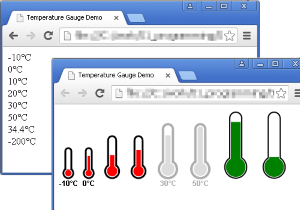
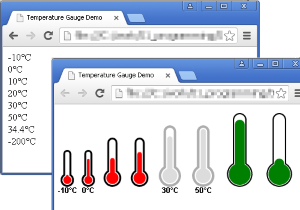
minor refactoring and adds labelSize property

Changed region(s): [[0.18, 0.5714, 0.72, 0.9429], [0.87, 0.5143, 0.99, 0.8857], [0.75, 0.5143, 0.84, 0.9143]]

diff --git a/js/jquery.tempgauge.js b/js/jquery.tempgauge.js
@@ -2,7 +2,7 @@
 (function($){
 	$.fn.tempGauge = function(options) {
 		var opts = $.extend({}, $.fn.tempGauge.defaults, options),
-		padding = 10;			
+		padding = opts.borderWidth;			
 		
 		var gauges = [];
 		
@@ -24,15 +24,19 @@
 			
 			$(gauge).replaceWith(canvas);
 			
-			var length = opts.maxTemp - opts.minTemp;
-			var percentage = calculatePercentage(currentTemp, opts.minTemp, length);
+			var percentage = calculatePercentage(currentTemp, opts.minTemp, opts.maxTemp - opts.minTemp);
 
-			fillTempGauge(ctx, 0, 0, opts.width,  opts.width * 2, percentage);
-			strokeTempGauge(ctx, 0, 0,  opts.width,  opts.width * 2,  opts.borderWidth);
-			if(opts.showLabel){
-				drawLabel(ctx, canvas.width/2, canvas.height - opts.labelSize/3 , currentTempText);
-			}
+			ctx.lineWidth = opts.borderWidth;
+			ctx.strokeStyle = opts.borderColor;
+			ctx.fillStyle = opts.fillColor;
+			ctx.font = "bold " + opts.labelSize + "px Arial ";
+			ctx.textAlign = "center";
 			
+			fillTempGauge(ctx, 0, padding/2, opts.width,  opts.width * 2 - padding, percentage);
+			strokeTempGauge(ctx, 0, padding/2,  opts.width,  opts.width * 2 -padding);
+			if(opts.showLabel){
+				drawLabel(ctx, canvas.width/2, canvas.height - opts.labelSize/5 , currentTempText);
+			}
 		}	
 		
 		function calculatePercentage(temp, mintemp, length){
@@ -40,88 +44,48 @@
 			percentage = percentage > 1 ? 1 : percentage;
 			percentage = percentage < 0 ? 0 : percentage;
 			return percentage;
-			
 		}
 		
-		function strokeTempGauge(ctx, x, y, width, height, borderWidth){
-			
-			y += padding/2;
-			height -= padding;
+		function drawTemperatureGauge(ctx, x, y, width, height, spacing, fillPercent){
 			
 			var wholeCircle = Math.PI * 2;
-			var smallRadius = width / 3 / 2;
-			var xSmall = x + width / 2;
-			var ySmall = y + smallRadius;
+			var smallRadius = width / 3 / 2 - spacing;
+			var xSmall = x + width / 2 ;
+			var ySmall = y + smallRadius + spacing;
 			
-			var bigRadius = height / 6;
-			var xBig = x + width / 2;
+			var bigRadius = height / 6 - spacing;
+			var xBig = x + width / 2 ;
 			var yBig = y + height / 6 * 5 ;
 			
 			var offSet = Math.sqrt((Math.pow(bigRadius,2) - Math.pow(smallRadius/2,2)),2);
+			var twoThirdsLength = height / 6 * 5 - offSet - width / 3 / 2;
+			
+			var gauge = twoThirdsLength * fillPercent;
+			
+			var yBox = yBig - offSet - gauge;
+			var xBox = xBig - width / 6 + spacing;
+			var sRad = Math.asin(smallRadius/bigRadius);
+			
+			ctx.beginPath();
+			ctx.arc(xSmall, yBox, smallRadius, 0, wholeCircle * -0.5,  true);
+			ctx.arc(xBig, yBig, bigRadius, wholeCircle * 0.75 - sRad, wholeCircle * -0.25 + sRad, true);
+			ctx.closePath();
+		}
 		
-			ctx.beginPath();
-			ctx.lineWidth = borderWidth;
-			ctx.strokeStyle = opts.borderColor;
-			ctx.arc(xSmall, ySmall, smallRadius, wholeCircle / -2, 0, false);
-			ctx.moveTo(xSmall - smallRadius , ySmall);
-			ctx.lineTo(xSmall - smallRadius , yBig - offSet + borderWidth);
-			ctx.stroke();
-			ctx.beginPath();
-			ctx.moveTo(xSmall + smallRadius , ySmall);
-			ctx.lineTo(xSmall + smallRadius , yBig - offSet + borderWidth);
-				ctx.stroke();
-			ctx.beginPath();
-			ctx.arc(xBig, yBig, bigRadius, wholeCircle/-6, wholeCircle * -2/6, false);
+		function strokeTempGauge(ctx, x, y, width, height){
+			drawTemperatureGauge(ctx, x, y, width, height, 0, 1);
 			ctx.stroke();
 		}
 		
 		function fillTempGauge(ctx, x, y, width, height, percent){
-			
-			var wholeCircle = Math.PI * 2;
-			
-			y += padding/2;
-			height -= padding;
-			
-			var bigRadius = height / 6 - opts.borderWidth;
-			var xBig = x + width / 2;
-			var yBig = y + height / 6 * 5 ;
-			
-			var smallRadius = width / 3 / 2 - opts.borderWidth;
-			var xSmall = x + width / 2;
-			var ySmall = y + smallRadius + opts.borderWidth;
-			
-			var offSet = Math.sqrt((Math.pow(bigRadius,2) - Math.pow(smallRadius/2,2)),2);
-			
-			var twoThirdsLength = height / 6 * 5 - offSet - width / 3 / 2;
-			
-			var gauge = twoThirdsLength * percent;
-			
-			var yBox = yBig - offSet - gauge;
-			var xBox = xBig - width / 6 + opts.borderWidth;	
-			
-			ctx.fillStyle = opts.fillColor;
-			
-			if(percent == 1){
-				ctx.arc(xSmall, ySmall, smallRadius, wholeCircle / -2, 0, false);
-				ctx.closePath();
-				ctx.fill();
-			}
-			
-			ctx.fillRect(xBox, yBox - 1, width/3 - opts.borderWidth*2, gauge + padding);
-			
-			ctx.beginPath();
-			ctx.arc(xBig, yBig, bigRadius, wholeCircle / -6, wholeCircle * -2/6, false);
-			ctx.closePath();
+			drawTemperatureGauge(ctx, x, y, width, height,  opts.borderWidth, percent);
 			ctx.fill();
 		}
 		
 		function drawLabel(ctx, x, y, text){
-			ctx.font = "bold " + opts.labelSize + "px Arial ";
-			ctx.textAlign = "center";
-			ctx.fillStyle = opts.borderColor;
+			ctx.fillStyle = opts.labelColor;
 			ctx.fillText(text, x , y );
 		}
-		
 	};
 	
 	$.fn.tempGauge.defaults = {
@@ -130,6 +94,7 @@
 		defaultTemp: 26,
 		fillColor: "red",
 		labelSize: 12,
+		labelColor: "black",
 		maxTemp: 40,
 		minTemp: -10,
 		showLabel:false,
@@ -137,7 +102,6 @@
 	};
 		
 })(jQuery);
-
 
 /*	
     +---+

diff --git a/readme.md b/readme.md
@@ -63,6 +63,7 @@ See ```demo.html``` for an working example, here a link to a working Demo [jQuer
 * **borderWidth** *(****default:*** *4)*
 * **defaultTemp**  *(****default:*** *26)*
 * **fillColor**  *(****default:*** *red)*
+* **labelColor**  *(****default:*** *black)*
 * **labelSize**  *(****default:*** *12)*
 * **maxTemp**  *(****default:*** *40)*
 * **minTemp**  *(****default:*** *100)*
